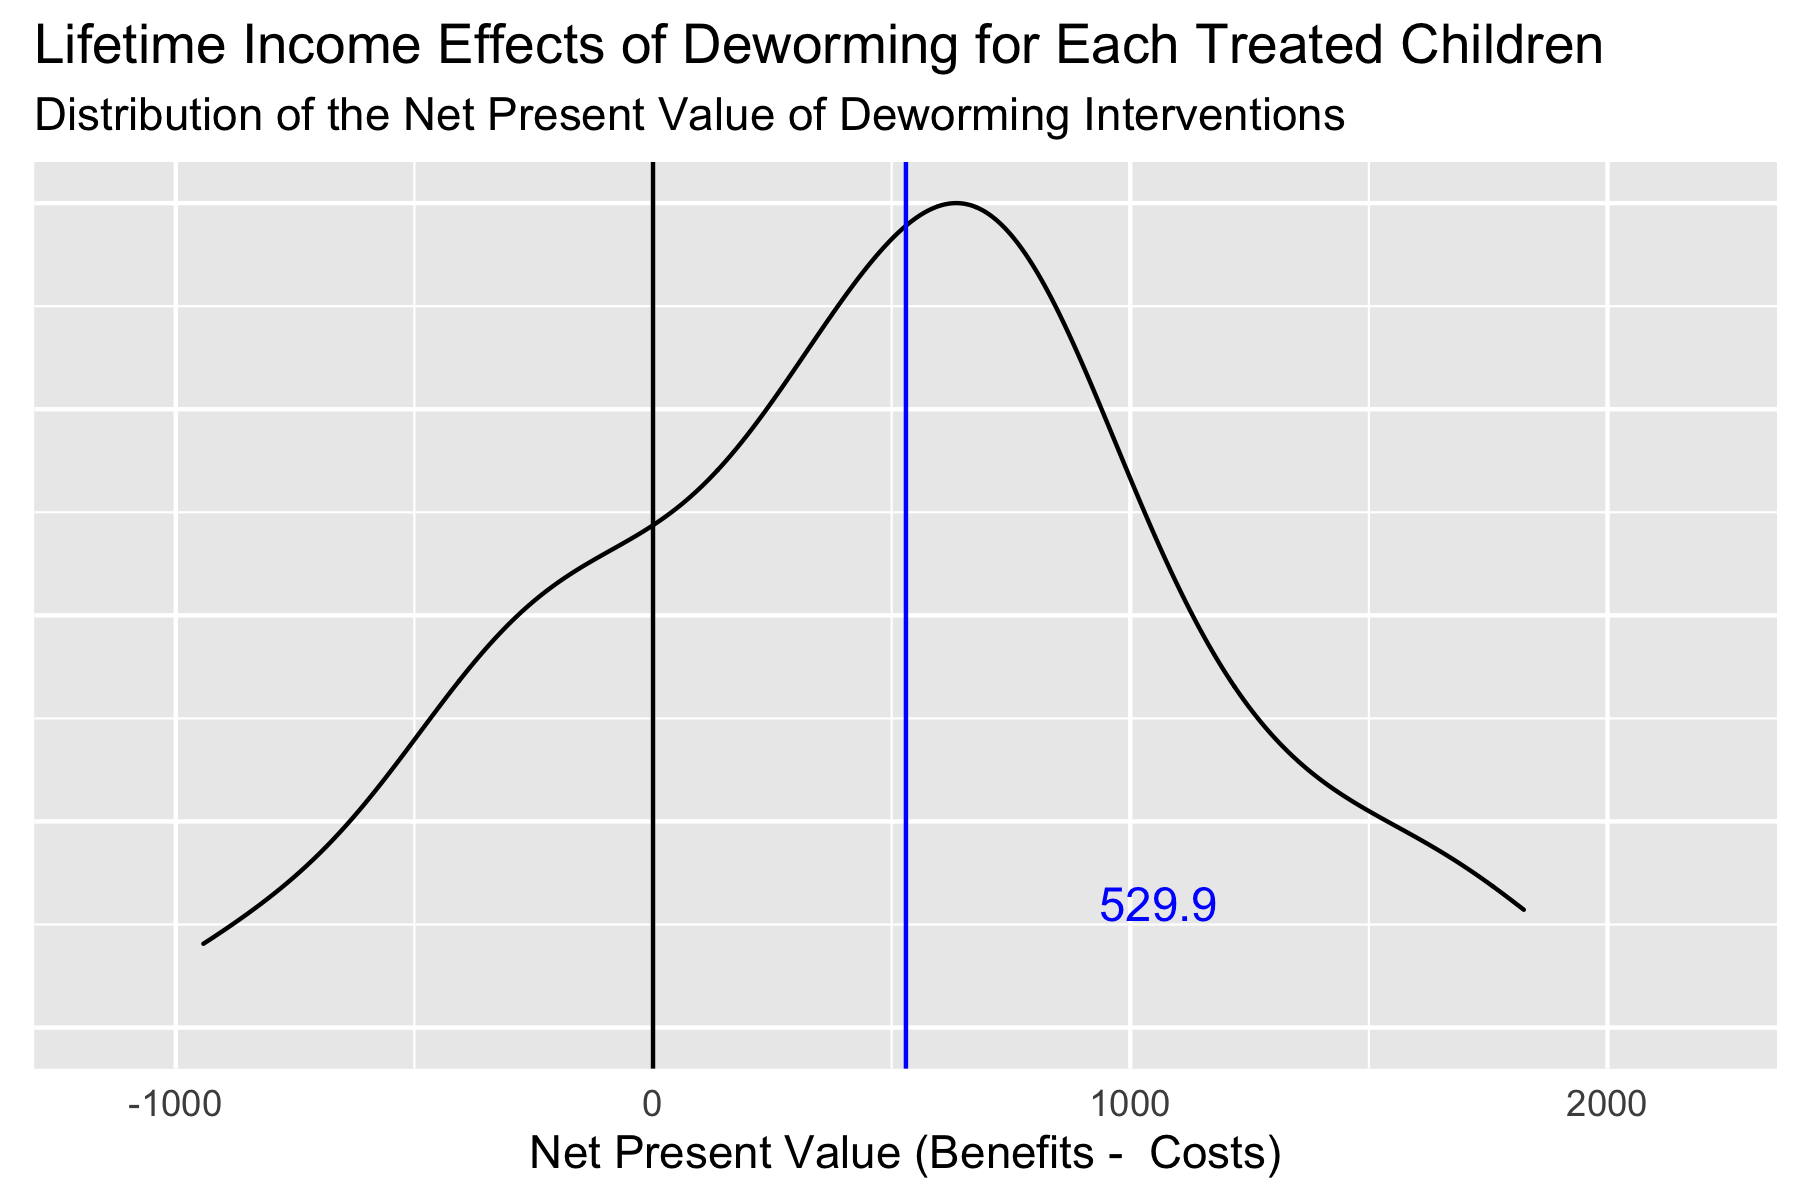
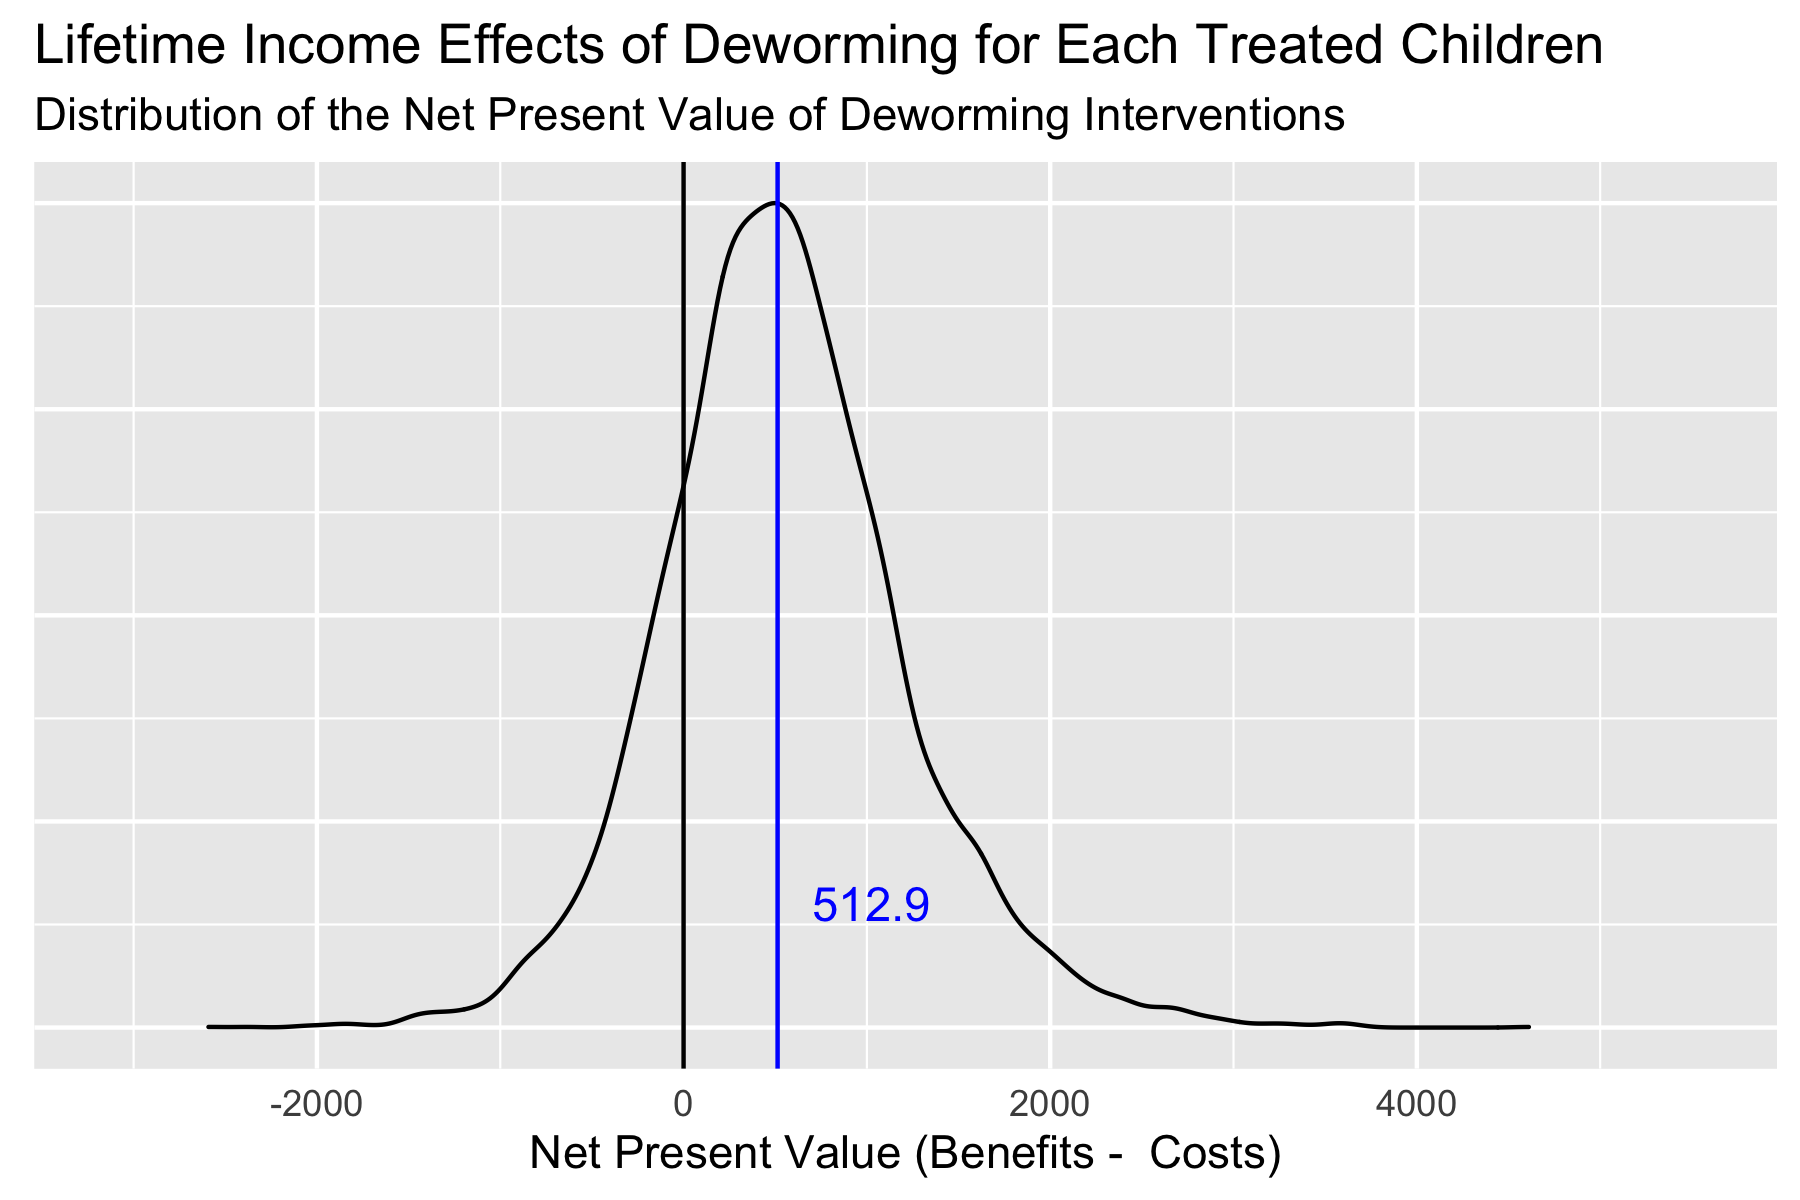
removing country clickable options

diff --git a/code/05_final_opa.md b/code/05_final_opa.md
@@ -182,7 +182,7 @@ chunk_params <- function(){
     costs_par_sd_so <- 0.1
     counts_par_so <- 1
     counts_par_sd_so <- 0.1
-    nsims_so <- 1e2
+    nsims_so <- 1e4
     new_costs_so <- NULL
     country_sel_so <- list("india", "kenya", "nigeria", "vietnam")
     country_sel_pop_so <- c(
@@ -2023,7 +2023,14 @@ C_{i,k} = \sum_{l \in items}\sum_{m \in regions}C_{i,k,l,m}$ </td>
 
 ### Main policy estimate and additional formats {#policy-estimate}
 
+The main policy estimate is defined as that of Evidence Action (approach 3) using the latest research (@klps4): approach 3.3. 
+
+This estimate can also me presented in two additional formats. 
+
+<!--
 The key result for policy makers is defined as the cost effectiveness ratio (cell [`Deworming!B32`](https://docs.google.com/spreadsheets/d/1rL8NPB8xnxqs1pr_MMEA0j27sAqEuAluwGSML7pREzk/edit#gid=472531943&range=B32)).
+-->
+Cost effectiveness ratio. 
 
 \begin{equation}
 CEA_{deworming} = \frac{B (1 + F_{0})}{C}
@@ -2032,10 +2039,12 @@ CEA_{deworming} = \frac{B (1 + F_{0})}{C}
 \tag{20}
 \end{equation}
 
- - $C$ is the costs per person dewormed (`F2, 4,B23` --> [`F1, 2, H16`](https://docs.google.com/spreadsheets/d/1hmijmJBeCJAKI1dT8n5iOLAAxfzWrKYJM_KfouFYI2w/edit#gid=1891183342&range=H16)).     
+$F_{0}$ is a factor to account for leverage/fudging [not reviewed in this excercise] ([`F2, 6, D259`](https://docs.google.com/spreadsheets/d/1rL8NPB8xnxqs1pr_MMEA0j27sAqEuAluwGSML7pREzk/edit#gid=1611790402&range=D259))
+<!--
+ - $C$ is the costs per person dewormed (`F2, 4,B23`  [`F1, 2, H16`](https://docs.google.com/spreadsheets/d/1hmijmJBeCJAKI1dT8n5iOLAAxfzWrKYJM_KfouFYI2w/edit#gid=1891183342&range=H16)).     
  - $B$ is the benefits per person dewormed (`F2, 4,B22`).
  - $F_{0}$ is a factor to account for leverage/fudging [not reviewed in this excercise] ([`F2, 6, D259`](https://docs.google.com/spreadsheets/d/1rL8NPB8xnxqs1pr_MMEA0j27sAqEuAluwGSML7pREzk/edit#gid=1611790402&range=D259))
-
+-->
 
 Also this quantity could be expressed in relative terms to the benchmark of cash transfers (cell [`Results!B9`](https://docs.google.com/spreadsheets/d/1rL8NPB8xnxqs1pr_MMEA0j27sAqEuAluwGSML7pREzk/edit#gid=1034883018&range=B9)):
 
@@ -2246,8 +2255,6 @@ C_{i,k} = \sum_{l \in items}\sum_{m \in regions}C_{i,k,l,m}$ </td>
 
 
 # Main results  
- The main policy estimate of this analysis 
-
 
 
 
@@ -2707,16 +2714,16 @@ ea3 <- NPV_pe_f(benefits_var = pv_benef_all_prev_new, costs_var = costs2_ea_in)
 unit_test(ea3, 517.640954399502)
 
 # CEA for EA
-a3_mpe_cea <- CEA_pe_f(benefits_var = pv_benef_all_new, 
+a3_mpe_cea <- CEA_pe_f(benefits_var = pv_benef_all_prev_new, 
                           costs_var = costs2_ea_in, 
                           fudging_var = 0)
-unit_test(a3_mpe_cea, 6452.86204429499)
+unit_test(a3_mpe_cea, 3516.19339422076)
 
-a3_mpe_rcea <- RCEA_pe_f( CEA_var = CEA_pe_f(benefits_var = pv_benef_all_new, 
+a3_mpe_rcea <- RCEA_pe_f( CEA_var = CEA_pe_f(benefits_var = pv_benef_all_prev_new, 
                                                 costs_var = costs2_ea_in, 
                                                 fudging_var = 0),
                              CEA_cash_var = 744)
-unit_test(a3_mpe_rcea, 8.6732016724395)
+unit_test(a3_mpe_rcea, 4.7260663900816)
 
 npv_table <- data.frame("no_ext" =  round( c(a1_tax, NA,
                                              NA), 1) ,
@@ -2806,21 +2813,21 @@ kable(npv_table, caption = "Summary of Policy Estimates Using Different Approach
 ## Results for overall welfare (not only taxes)
 
 
-- **NPV without externalities in @baird2016worms ($\lambda_2 = 0$):** 130.6    
+- NPV without externalities in @baird2016worms ($\lambda_2 = 0$): 130.6    
 
-- **NPV with externalities in @baird2016worms ($\lambda_2 = 10.2$ ):** 741.6  
+- NPV with externalities in @baird2016worms ($\lambda_2 = 10.2$ ): 741.6  
 
-- **NPV without externalities in @klps4:** 917.9   
+- NPV without externalities in @klps4: 917.9   
 
-- **NPV without externalities in EA 2019 ($\lambda_2 = 0$):** 77.5    
+- NPV without externalities in EA 2019 ($\lambda_2 = 0$): 77.5    
 
-- **NPV with externalities in EA 2019 ($\lambda_2 = 10.2$ ):** 701.8
+- NPV with externalities in EA 2019 ($\lambda_2 = 10.2$ ): 701.8
 
 - **NPV without ext and benef from @klps4 and EA costs 2019 :** 517.6
 
-- **CEA format:** 6452.9    
+- **CEA format:** 3516.2    
 
-- **RCEA format (relative to cash):** 8.7    
+- **RCEA format (relative to cash):** 4.7    
 
 
 # Accounting for Uncertainty
